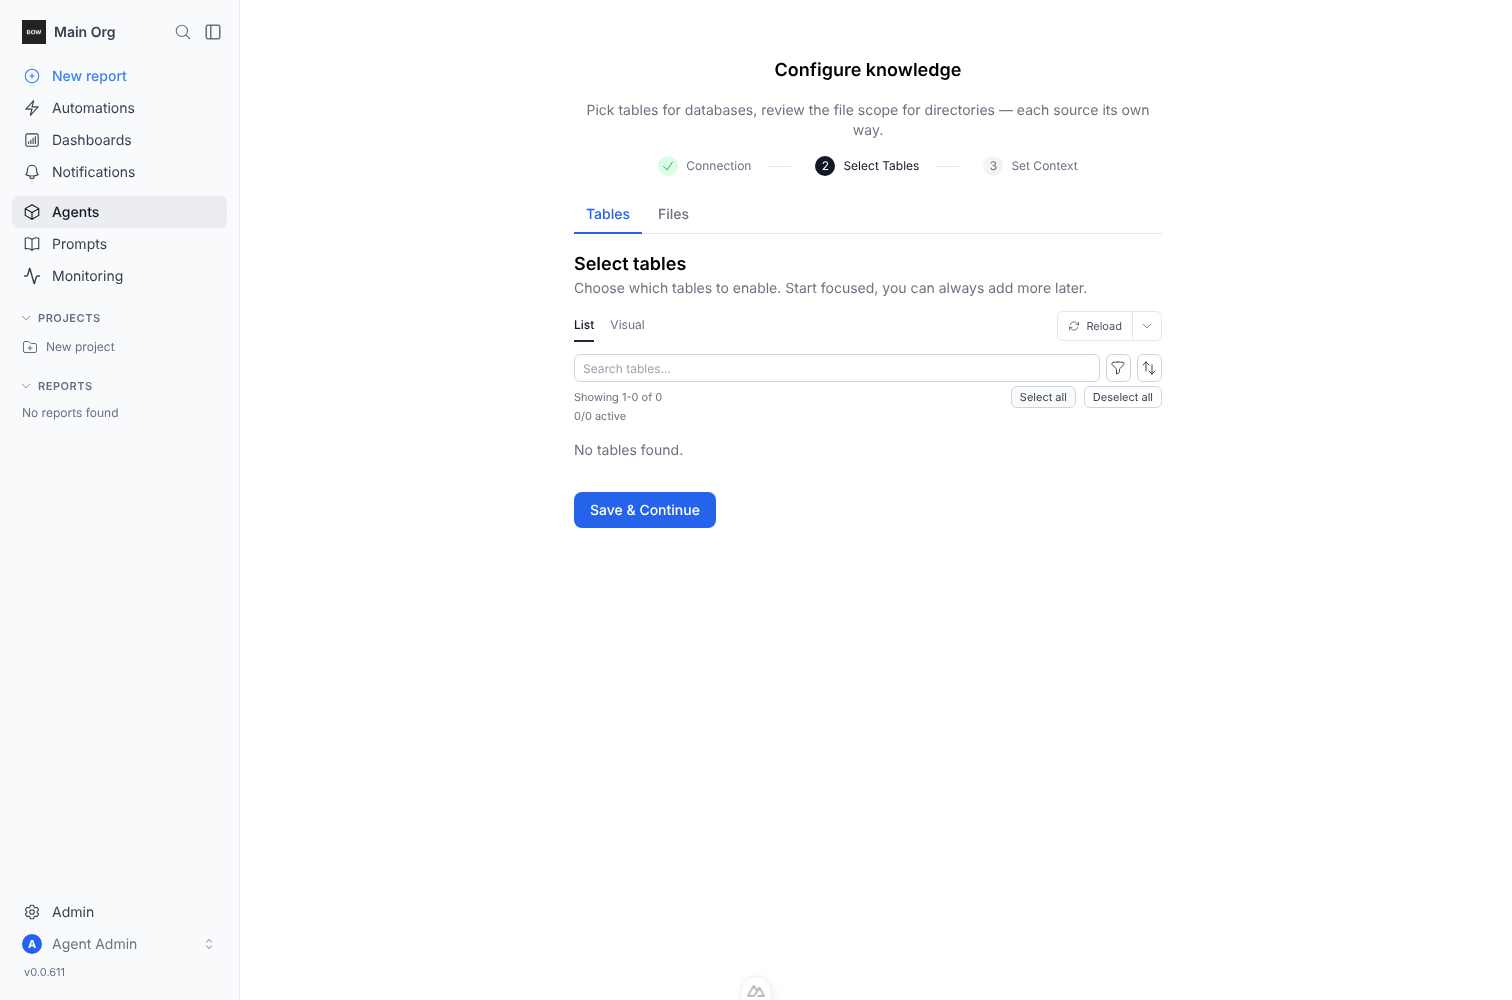
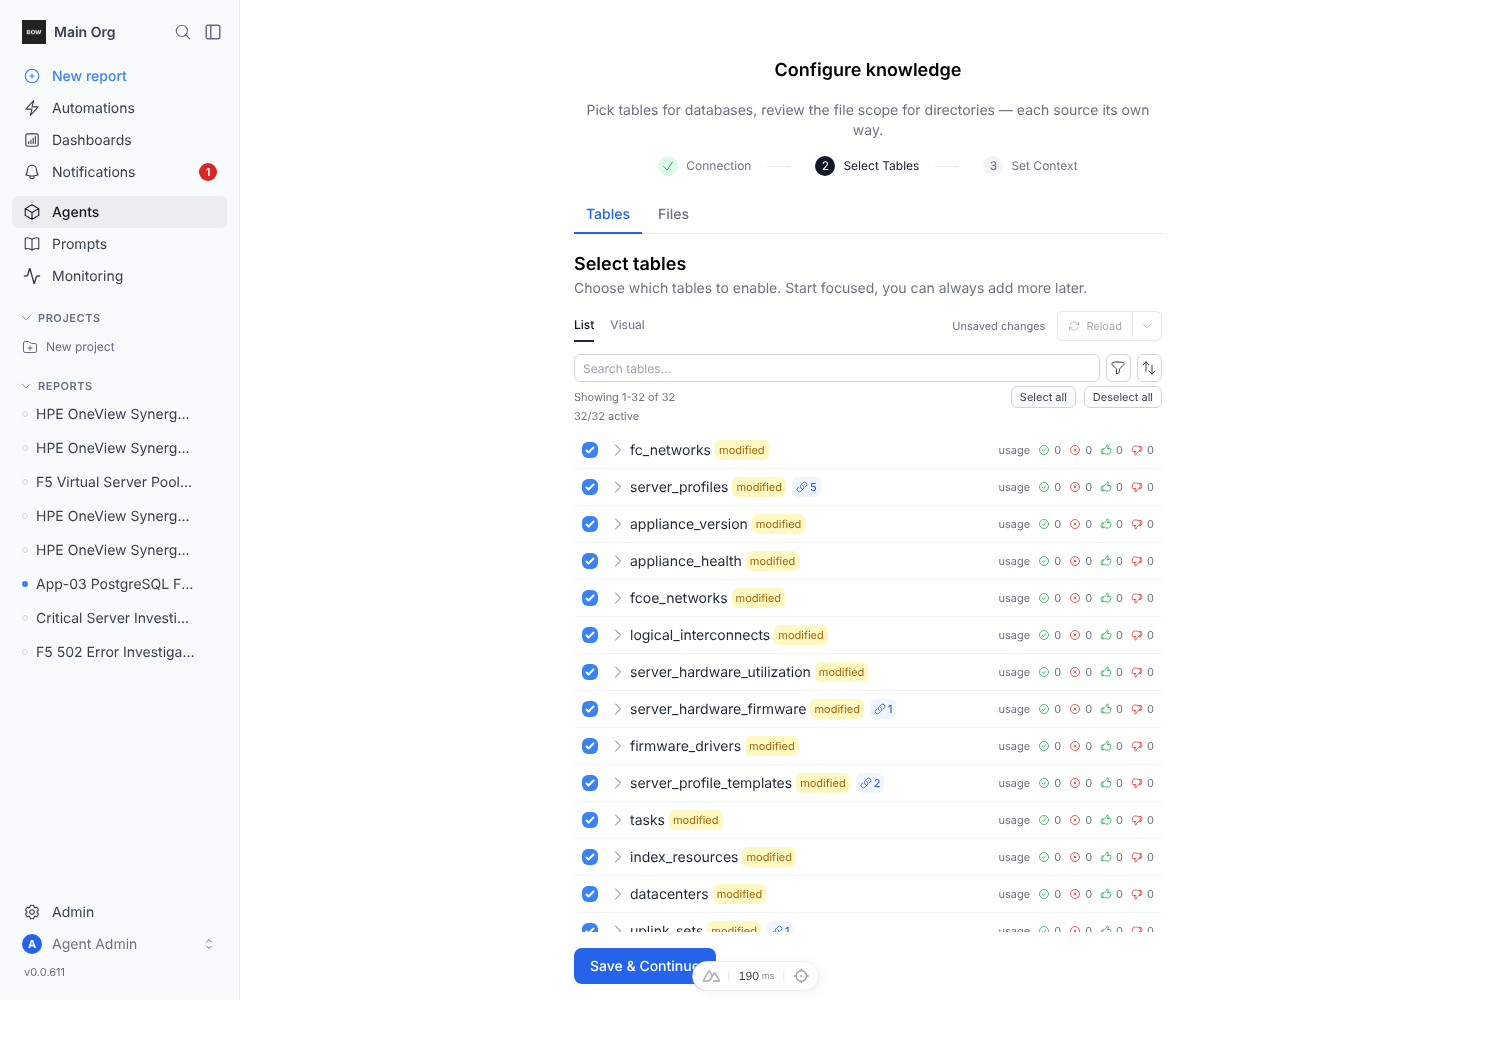
Filter non-indexed OneView columns client-side; add OneView feedback loop
OneView accepts filter= only on indexed attributes; planners filter
server_profile_templates by uri and interconnect_ports by interconnectUri.
Any other catalogued column is now filtered after the complete fetch with the
same op/value vocabulary. Documents the full simulator → tests → Haiku 5.5
sandbox loop for the OneView connector with its UI evidence.

Claude-Session: https://claude.ai/code/session_01AX2WHLvAsPpHzPMS4fgcM6

diff --git a/backend/app/data_sources/clients/hpe_oneview_client.py b/backend/app/data_sources/clients/hpe_oneview_client.py
@@ -28,7 +28,6 @@ from app.ai.prompt_formatters import ForeignKey, Table, TableColumn
 from app.data_sources.clients.base import DataSourceClient
 from app.data_sources.clients.progress import discovery_items, discovery_progress
 
-
 _LIMIT_MSG = "Result exceeds limit, which is a complete-result ceiling rather than a preview: raise limit (up to max_rows) or narrow filters, then preview with pandas .head(n). Nothing was truncated."
 
 class OneViewQueryError(ValueError):
@@ -485,6 +484,30 @@ Simulator-verified contract; customer appliance validation (release, permissions
             raise OneViewQueryError("InvalidQuery", "Filter values cannot contain quotes, backslashes or control characters.")
         return "'" + value + "'"
 
+    @classmethod
+    def _local_match(cls, actual, spec):
+        """Client-side equivalent of the server-side filter vocabulary."""
+        if isinstance(spec, dict):
+            op, value = spec["op"], spec["value"]
+        else:
+            op, value = "eq", spec
+        if op == "in":
+            return any(cls._local_match(actual, x) for x in value)
+        if actual is None:
+            return False
+        if op == "eq":
+            return str(actual) == str(value) or actual == value
+        if op == "ne":
+            return not (str(actual) == str(value) or actual == value)
+        if op == "like":
+            pattern = "^" + ".*".join(re.escape(part) for part in str(value).split("%")) + "$"
+            return re.match(pattern, str(actual), re.IGNORECASE) is not None
+        try:
+            left, right = float(actual), float(value)
+        except (TypeError, ValueError):
+            left, right = str(actual), str(value)
+        return {"gt": left > right, "ge": left >= right, "lt": left < right, "le": left <= right}[op]
+
     def _filter_terms(self, field, value):
         """Return the list of OneView filter expressions for one field (several for `in`)."""
         if not isinstance(value, dict):
@@ -594,11 +617,21 @@ Simulator-verified contract; customer appliance validation (release, permissions
             raise OneViewQueryError("InvalidQuery", "filter must be an object.")
         if filters and singleton:
             raise OneViewQueryError("InvalidQuery", "This query shape does not support server-side filters.")
+        local_filters = {}
         for k, v in filters.items():
-            if k not in resource["filters"]:
-                raise OneViewQueryError("InvalidQuery", f"Unknown or excluded filter: {k}.")
-            for term in self._filter_terms(k, v):
-                params.append(("filter", '"' + term + '"'))
+            if k in resource["filters"]:
+                for term in self._filter_terms(k, v):
+                    params.append(("filter", '"' + term + '"'))
+            elif k in resource["fields"]:
+                # OneView only filters server-side on indexed attributes; any other
+                # catalogued column (uri, interconnectUri, ...) is filtered here after
+                # the complete fetch, with the same comparison vocabulary.
+                self._filter_terms(k, v)  # validates the value shape before any I/O
+                local_filters[k] = v
+            else:
+                raise OneViewQueryError(
+                    "InvalidQuery", f"Unknown or excluded filter: {k}. Use get_schema(table) for the documented columns."
+                )
 
         now = datetime.now(UTC)
         for control in ("lookback", "start_time", "end_time"):
@@ -688,6 +721,11 @@ Simulator-verified contract; customer appliance validation (release, permissions
                 raise
         if kind == "collection_flatten" or (kind == "collection_flatten" and singleton):
             records = self._flatten(records, resource)
+        if local_filters:
+            records = [
+                r for r in records
+                if all(self._local_match(self._extract(r, k), v) for k, v in local_filters.items())
+            ]
         if len(records) > limit:
             raise OneViewQueryError("ResultLimitExceeded", _LIMIT_MSG)
         rows = []

diff --git a/backend/tests/unit/test_hpe_oneview_client.py b/backend/tests/unit/test_hpe_oneview_client.py
@@ -302,7 +302,7 @@ def test_transient_errors_retry_then_return_complete_data(client, http, monkeypa
         {"table": "server_hardware", "path": "/rest/users"},
         {"table": "server_hardware", "fields": ["password"]},
         {"table": "server_hardware", "fields": []},
-        {"table": "server_hardware", "filter": {"uri": "/rest/x"}},
+        {"table": "server_hardware", "filter": {"not_a_column": "/rest/x"}},
         {"table": "server_hardware", "filter": {"name": "it's"}},
         {"table": "server_hardware", "filter": {"name": {"op": "regex", "value": "x"}}},
         {"table": "server_hardware", "filter": {"name": {"op": "in", "value": []}}},
@@ -679,3 +679,18 @@ def test_form_shaped_api_version_values_are_accepted(value):
 def test_out_of_range_api_version_still_fails_fast():
     with pytest.raises(OneViewQueryError):
         HpeOneViewClient(url="https://oneview.example", username="reader", password="x", api_version="99999")
+
+
+def test_non_indexed_catalog_columns_filter_client_side(client, http):
+    """OneView indexes only some attributes for filter=; planners still filter on uri/interconnectUri."""
+    queue, seen = http
+    queue.append((200, page([
+        {"uri": "/rest/server-profile-templates/a", "name": "SPT-ESXi-Prod", "status": "OK"},
+        {"uri": "/rest/server-profile-templates/b", "name": "SPT-RHEL-Prod", "status": "OK"},
+    ])))
+    df = client.execute_query({"table": "server_profile_templates", "filter": {"uri": {"op": "in", "value": ["/rest/server-profile-templates/b"]}}, "fields": ["uri", "name"]})
+    assert list(df["name"]) == ["SPT-RHEL-Prod"]
+    # The non-indexed column was NOT pushed to the appliance; indexed ones still are.
+    assert "filter=" not in data_requests(seen)[-1].url
+    with pytest.raises(OneViewQueryError):
+        client.execute_query({"table": "server_profile_templates", "filter": {"nope": "x"}})

diff --git a/docs/feedback-loops/hpe-oneview-connector.md b/docs/feedback-loops/hpe-oneview-connector.md
@@ -1,0 +1,134 @@
+# Feedback loop: HPE OneView connector — simulator, tests and full sandbox pass
+
+Date: 2026-11-07 · Branch: `ai/loving-brahmagupta-d7snv9`
+Evidence: `media/pr/hpe-oneview-connector/`
+
+## What was built
+
+- `backend/app/data_sources/clients/hpe_oneview_client.py` — `HpeOneViewClient`
+  (OneView / Synergy Composer REST; catalog reference OneView 9.00, API 6800).
+  Session per operation: `GET /rest/version` (no auth) negotiates
+  `X-API-Version` (clamped to the catalog range 1200–7200), `POST
+  /rest/login-sessions {"userName","password","authLoginDomain","loginMsgAck"}`
+  → `sessionID` sent as the literal `Auth` header, `DELETE /rest/login-sessions`
+  in `finally`. Paging `start/count` (never `count=-1`) following `nextPageUri`
+  with origin/path/scope checks; `filter="field='v'"` terms, `sort`, `fields`,
+  utilization windows and index queries; a single `_request` primitive that
+  allows only catalogued GETs plus the login POST/DELETE.
+- `backend/app/data_sources/clients/hpe_oneview/catalog.json` — 32 tables:
+  `appliance_version`, `appliance_health`, `server_hardware`,
+  `server_hardware_firmware`, `server_hardware_utilization`,
+  `server_hardware_types`, `server_profiles`, `server_profile_templates`,
+  `enclosures`, `enclosure_groups`, `logical_enclosures`, `interconnects`,
+  `interconnect_ports`, `logical_interconnects`, `sas_interconnects`,
+  `uplink_sets`, `ethernet_networks`, `fc_networks`, `fcoe_networks`,
+  `network_sets`, `racks`, `datacenters`, `power_devices`, `alerts`, `events`,
+  `tasks`, `firmware_drivers`, `storage_systems`, `storage_pools`,
+  `storage_volumes`, `scopes`, `index_resources`. Fields not backed by an SDK
+  fixture carry `"inferred": true`.
+- `HpeOneViewConfig` (`auth_login_domain`, optional `api_version`) /
+  `HpeOneViewCredentials` in `configs.py`; `REGISTRY["hpe_oneview"]`
+  (`infra`, `beta`, explicit `client_path`); icon `hpe_oneview.png`.
+- `tools/hpe_oneview/simulated_api.py` — loopback simulator for a Synergy
+  estate (3 frames, 24 SY480 servers with mixed status, 20 profiles — 3
+  NonCompliant —, 6 interconnects with ports — one Critical —, 2 SPP
+  baselines, 80 alerts, 40 tasks — 3 Error —, networks, storage, hourly
+  utilization samples). Enforces `X-API-Version` (412
+  `UNSUPPORTED_API_VERSION`), `Auth` (401 `AUTHN_AUTH_TOKEN_INVALID`), 400
+  `AUTHN_AUTH_FAIL` on bad credentials, 404 `RESOURCE_NOT_FOUND`, 405 with the
+  real appliance's body on any mutating verb, and the documented
+  `members/start/count/total/nextPageUri/prevPageUri/uri` envelope.
+  `tools/hpe_oneview/SOURCES.md` lists every reference (HPE Python/Go SDK
+  sources and fixtures, Ansible fixtures, the Zabbix Synergy template, HPE
+  Developer articles) and the inferred shapes.
+- Tests: `backend/tests/unit/test_hpe_oneview_client.py` (121 collected incl.
+  one real-HTTP run against the in-process simulator),
+  `backend/tests/e2e/test_hpe_oneview.py`, `hpe_oneview` remote-mode entry in
+  `tests/integrations/ds_clients.py`.
+
+## Loop A — deterministic
+
+```bash
+cd backend && export TESTING=true BOW_DATABASE_URL=sqlite:///db/ov-tests.db
+uv run python -c "from app.schemas.data_source_registry import resolve_client_class; print(resolve_client_class('hpe_oneview'))"
+uv run pytest tests/unit/test_hpe_oneview_client.py -q --db=sqlite
+uv run pytest tests/e2e/test_hpe_oneview.py tests/e2e/test_data_source.py tests/e2e/test_connection.py --db=sqlite -q
+```
+
+Observed: all unit tests passed; connector e2e + 13 generic tests passed.
+Covered: version negotiation and clamping, pinned version outside
+`[minimumVersion, currentVersion]` fails before login, `Auth` header and
+guaranteed logout, continuation safety (`nextPageUri` must stay on the
+resource and advance), `total > limit` fails before fetching, 401/403/404/412
+codes without body echo, invalid queries make zero requests, mutation
+impossible, secret-like keys stripped, utilization sample flattening.
+
+## Loop B — real HTTP against the simulator
+
+```bash
+export ONEVIEW_USERNAME=reader ONEVIEW_PASSWORD=local-test-pass
+python3 tools/hpe_oneview/simulated_api.py --port 18095
+cd backend && ONEVIEW_TEST_URL=http://127.0.0.1:18095 ONEVIEW_TEST_USERNAME=reader ONEVIEW_TEST_PASSWORD=local-test-pass \
+  ONEVIEW_TEST_ALLOW_HTTP=true uv run pytest tests/integrations/ds_clients.py -k hpe_oneview -q --db=sqlite
+```
+
+Observed: `test_connection` → "Connected to HPE Synergy Composer2
+9.00.00-0417420 (X-API-Version 6800, catalog reference 6800). 32 read-only
+tables available."; integration harness **passed**.
+
+## Loop C — sandbox UI with Claude Haiku 5.5
+
+| Step | Observed |
+|---|---|
+| Catalog tile | HPE OneView with the HPE logo (`01-catalog-tile.png`) |
+| Connect | "Connection saved · Schema discovery · Discovered 32 tables" (`03-connection-tested.png`) |
+| Tables | 32/32 selected (`04-tables-selected.png`) |
+| Agent | generated overview with key tables (`05-agent.png`) |
+
+Prompt: *"We have a Synergy frame with degraded compute. Investigate in HPE
+OneView: which server hardware is Critical or Warning, what active alerts are
+attached to them, whether their server profiles are non-compliant, whether any
+interconnect is unhealthy, and which recent tasks ended in Error."*
+
+Haiku 5.5 queried `server_hardware` (status Critical/Warning → 5 servers,
+shown as a live table), then four sub-agents read `alerts` (Active alerts on
+those URIs: two `ProcessorStatus … thermal fault, throttled` Critical alerts
+on Frame-2 bay 3 and Frame-3 bay 3, a `PowerSupplyRedundancyLost` and a DIMM
+correctable-error warning), `server_profiles` + `server_profile_templates`
+(esx-03, esx-11, rhel-14 NonCompliant against SPT-ESXi-Prod / SPT-RHEL-Prod),
+and `interconnects` (one Critical module in the affected frames). Its summary
+named the shared thermal fault as the strongest signal and listed what it
+could not finish (`06-rca-report.png`, `07-rca-report-full.png`).
+
+### What the live run exposed (fixed in this branch)
+
+1. **Construction failure from the stored config.** The connect form stores
+   an empty optional field as `""`; the client rejected `api_version: ""`
+   while the wizard's Test connection had passed. The periodic health probe
+   then deactivated the connection and pruned its tables, so the first chat
+   saw "no OneView source" and the generated overview said the schema had no
+   tables. Empty/numeric-string `api_version` now means "negotiate"; the
+   agent was re-probed through the real API, its schema refreshed and the
+   overview regenerated before the run above.
+2. **Filters on non-indexed columns.** Sub-agents filtered
+   `server_profile_templates` by `uri` and `interconnect_ports` by
+   `interconnectUri`; OneView only accepts `filter=` on indexed attributes, so
+   those were rejected. Any other catalogued column is now filtered
+   client-side after the complete fetch with the same `op/value` vocabulary.
+3. Open-ended time windows (`start_time` without `end_time`, or a future
+   `end_time`) now mean "up to now", and provenance columns may be listed in
+   `fields` (shared with the other connectors).
+
+Each has a regression test. The remaining transcript failures
+(`SyntaxError` in generated code, `create_data` outside the sub-agent profile,
+a `KeyError` on the client key) are platform-side, not connector logic.
+
+## Faithfulness limits (see `tools/hpe_oneview/SOURCES.md`)
+
+HPE's REST API Reference is a JavaScript application whose content could not
+be fetched, so field names come from HPE's SDK sources/fixtures; health-status
+member fields, the failed-login status, `sort` direction tokens, utilization
+`metricSamples` layout and several rack/datacenter/power-device fields are
+inferred and flagged. Synergy Composer and plain OneView appliances share the
+API but differ in data; a read-only account on a real appliance is still
+required before GA.
